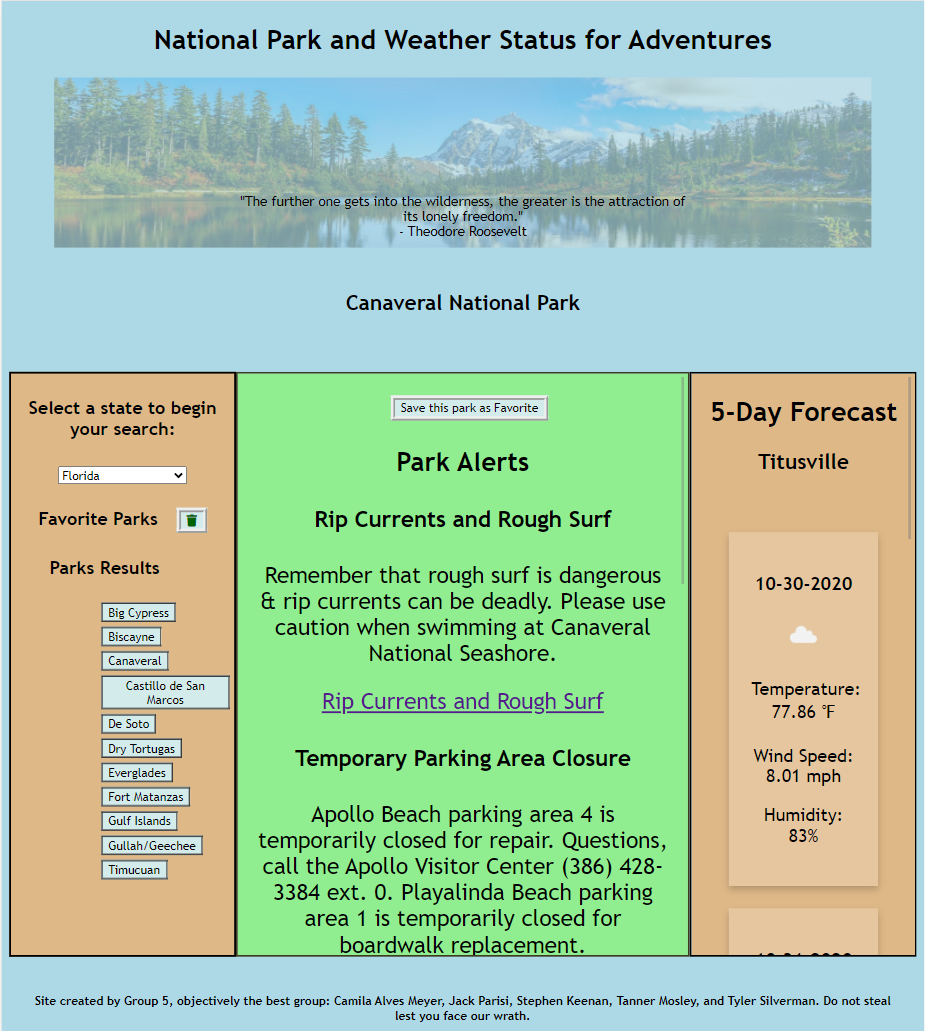
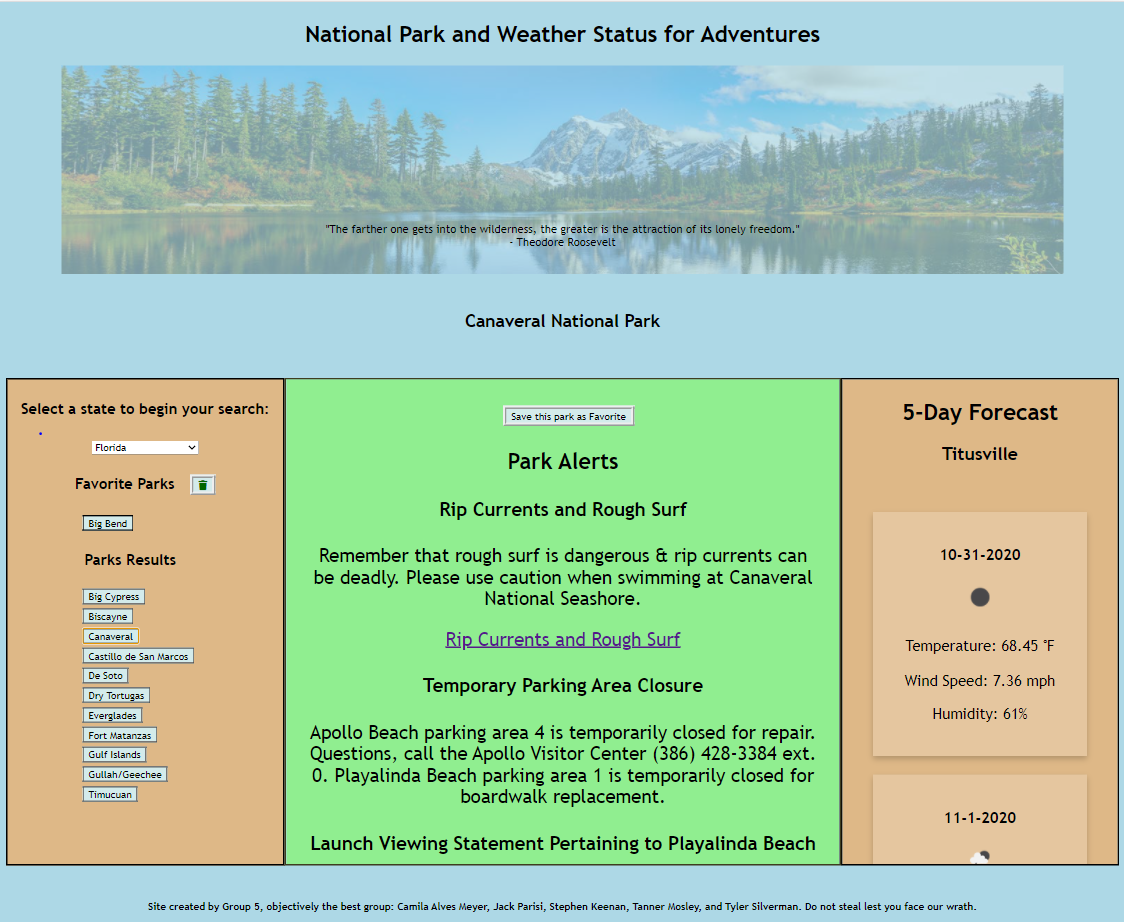
Added picture link to readMe and updated picture with correct spelling

diff --git a/README.md b/README.md
@@ -8,4 +8,4 @@ By selecting a state from the dropdown menu, a list of national parks located in
 [National Park]( https://jackparisi.github.io/Group-5-Project-1/)
 
 ## Visual Representation
-![National Park](add picture or video demo github link here)
+![National Park](https://github.com/jackparisi/Group-5-Project-1/blob/main/assets/image/liveSiteImage.PNG)
